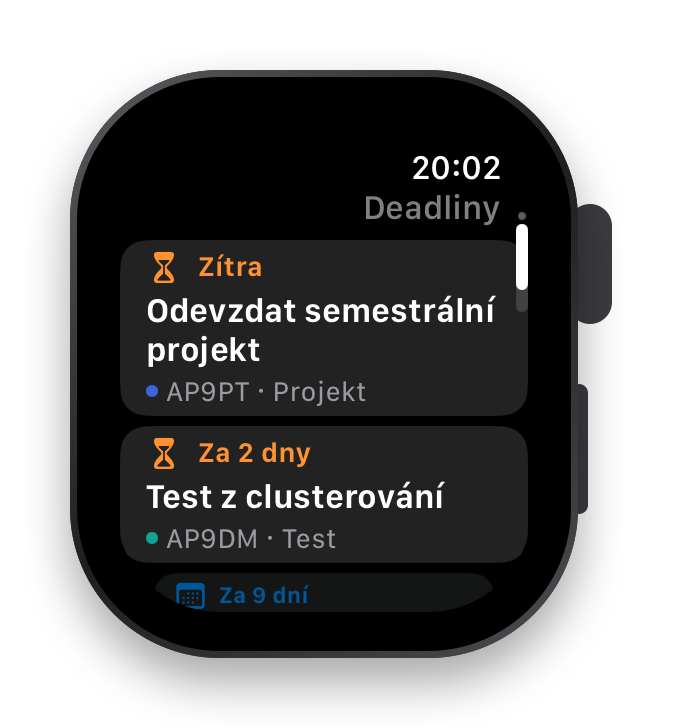
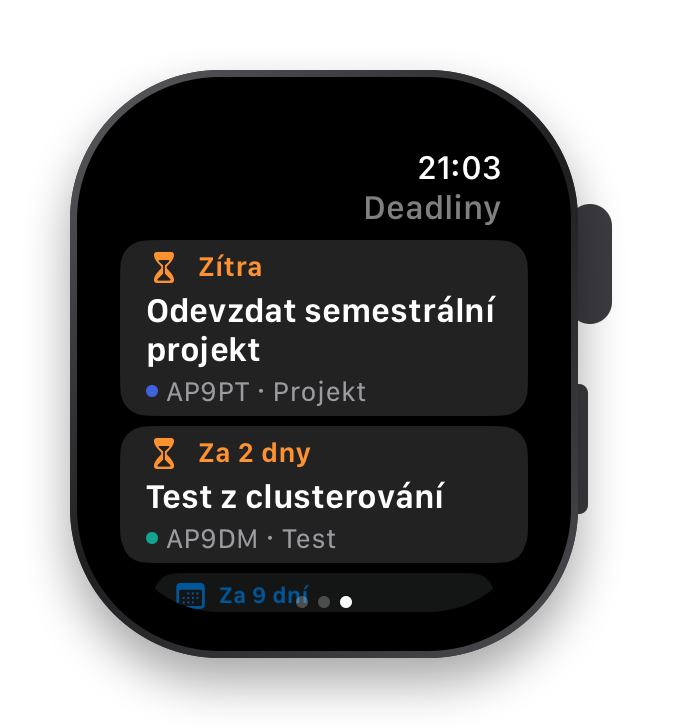
Apple Watch: přepínání stránek swipem doleva a doprava
Stránky aplikace pro hodinky se listují vodorovně, korunka posouvá obsah stránky. Ukázkové časy zaokrouhlené na čtvrthodiny a nové snímky hodinek.

diff --git a/TerminovnikWatch/WatchStore.swift b/TerminovnikWatch/WatchStore.swift
@@ -157,7 +157,7 @@ enum DemoLaunch {
         let minutesNow = calendar.component(.hour, from: now) * 60 + calendar.component(.minute, from: now)
         // Další hodina začíná na nejbližší čtvrthodinu alespoň 20 minut od teď;
         // celý blok (90 + 15 + 90 minut) musí skončit před půlnocí
-        let next = min((minutesNow + 20 + 14) / 15 * 15, 24 * 60 - 1 - 195)
+        let next = min((minutesNow + 20 + 14) / 15 * 15, (24 * 60 - 1 - 195) / 15 * 15)
         let plan: [String: (from: Int, to: Int)] = [
             "s2": (-150, -60),   // proběhlá hodina
             "s1": (0, 90),       // další hodina

diff --git a/TerminovnikWatch/TerminovnikWatchApp.swift b/TerminovnikWatch/TerminovnikWatchApp.swift
@@ -54,7 +54,8 @@ struct WatchRootView: View {
                         .navigationTitle(Text("Deadliny"))
                         .tag(2)
                 }
-                .tabViewStyle(.verticalPage)
+                // Stránky se přepínají swipem doleva a doprava; korunka posouvá obsah stránky
+                .tabViewStyle(.page)
             }
         }
     }

diff --git a/TerminovnikWatch/NextLessonView.swift b/TerminovnikWatch/NextLessonView.swift
@@ -120,7 +120,7 @@ extension TimetableOccurrence {
     TabView {
         NextLessonView(store: WatchStore(timetable: .sample, deadlines: WidgetDeadline.watchSamples))
     }
-    .tabViewStyle(.verticalPage)
+    .tabViewStyle(.page)
 }
 
 #Preview("Bez rozvrhu") {
